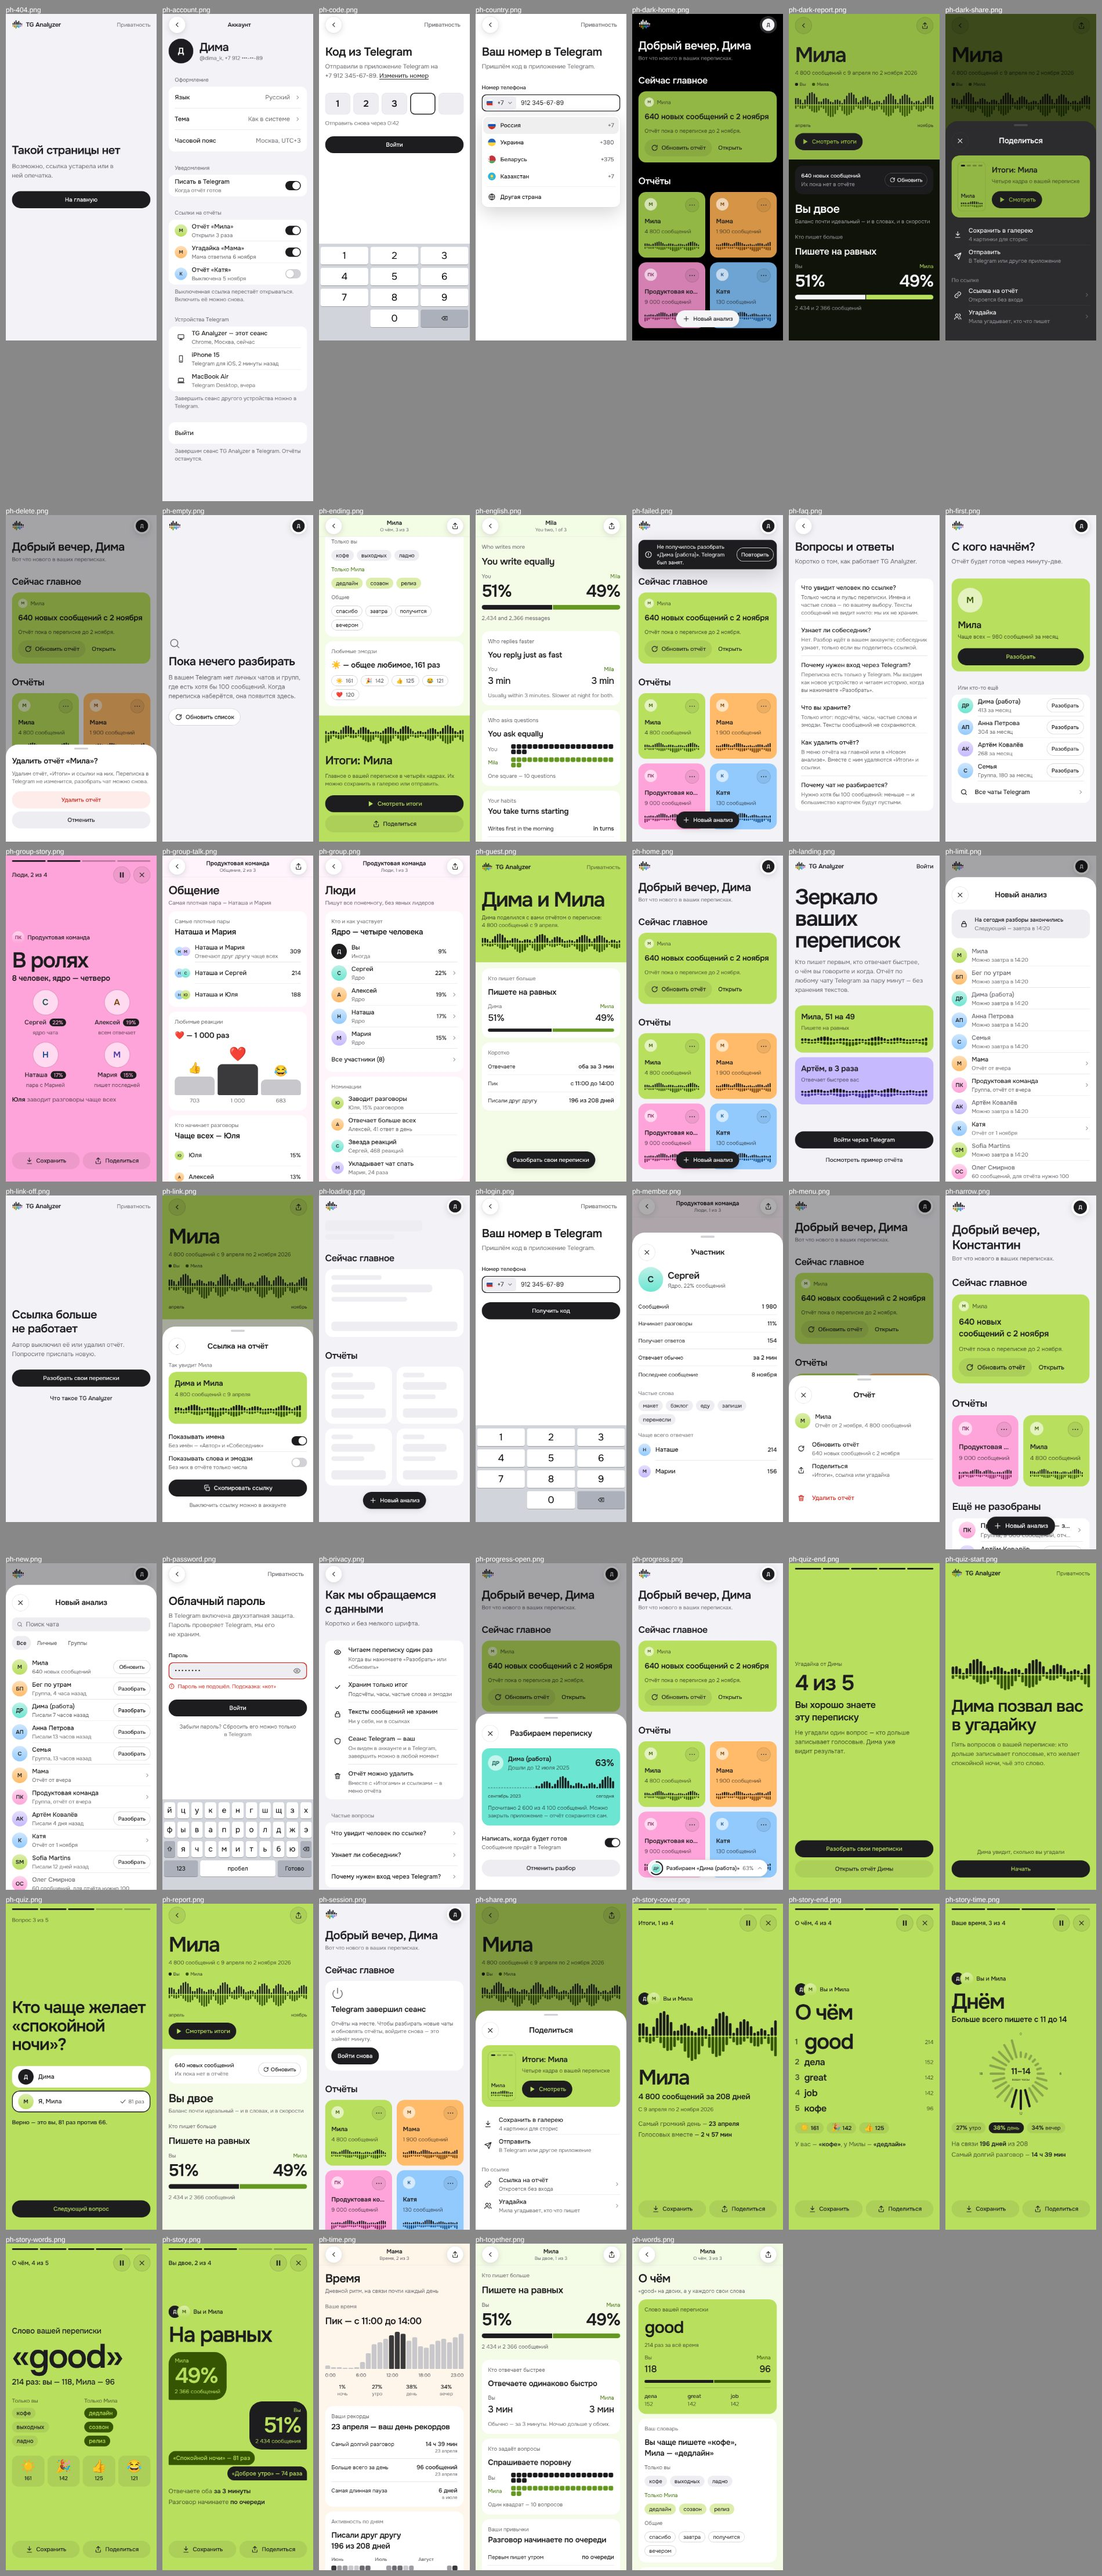
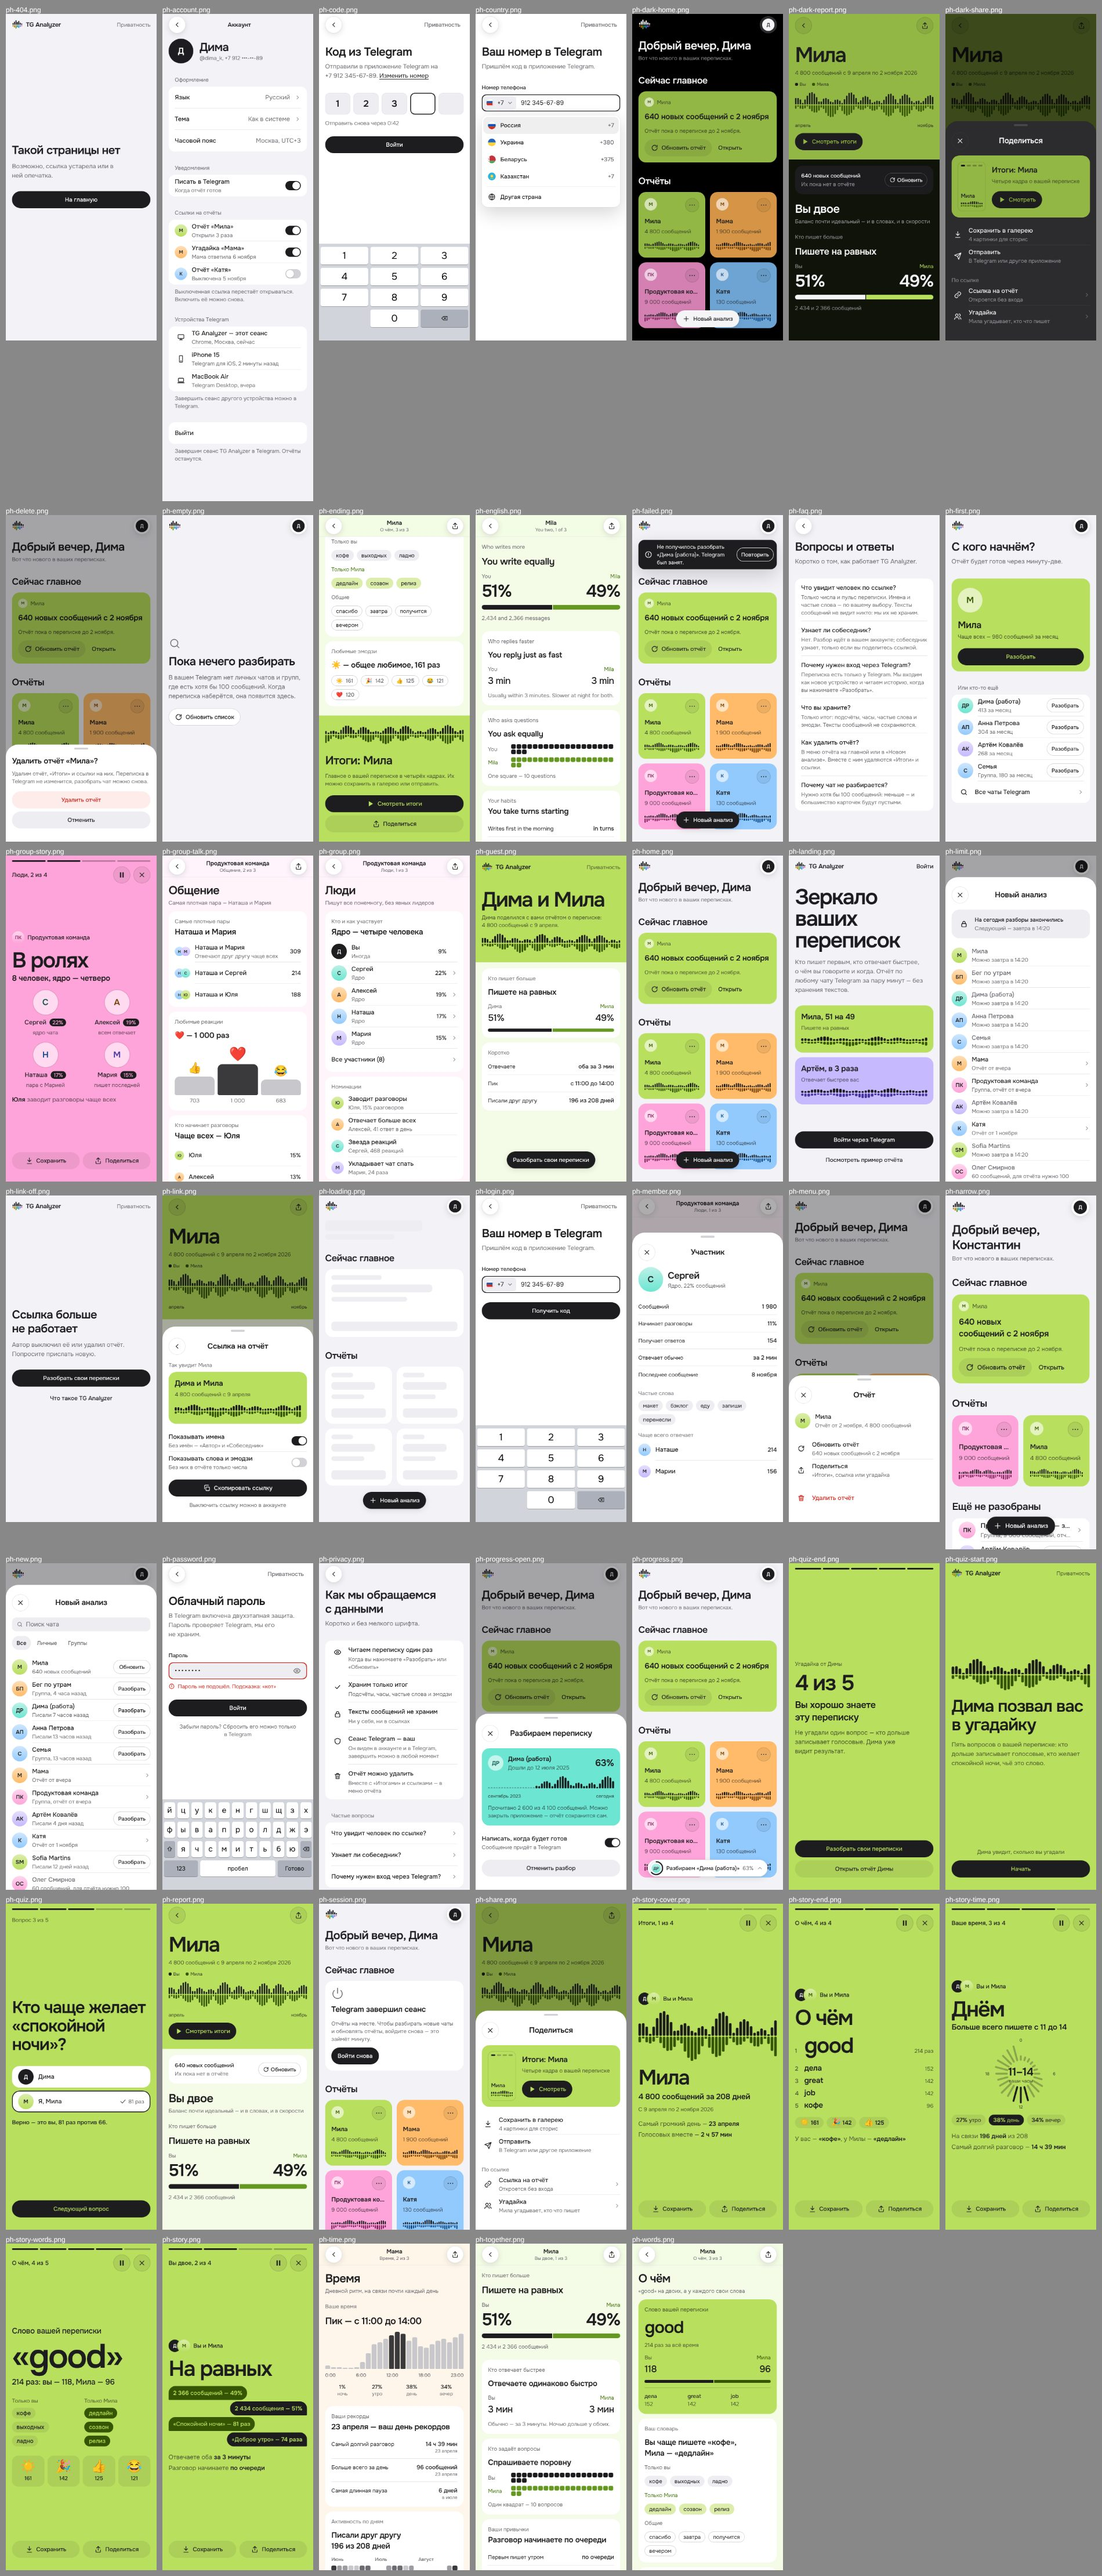
Stories mockups: short bubbles throughout, smaller clock face, tidy top five
Claude-Session: https://claude.ai/code/session_0138LxsFKP5n8SxjtSAnZS23

Changed region(s): [[0.8695, 0.7458, 0.9626, 0.839], [0.1553, 0.9011, 0.2795, 0.9633], [0.7142, 0.7458, 0.8074, 0.839]]

diff --git a/docs/design/portrait-v3/generator/system.py b/docs/design/portrait-v3/generator/system.py
@@ -453,27 +453,29 @@ CSS = r"""
 .st-lede { font: var(--text-h3); letter-spacing: var(--tracking-h3); text-wrap: balance; }
 /* «Вы двое»: a conversation — her bubble left in her deep tone, yours right in ink, Telegram service pills between */
 .st-chat { display: flex; flex-direction: column; gap: var(--space-1); }
-.bubble { display: flex; flex-direction: column; gap: var(--space-0-5); max-width: 72%; padding: var(--space-3) var(--space-4); border-radius: var(--radius-xl); color: var(--poster); font: var(--text-small); }
-.bubble b { font: var(--text-display); letter-spacing: var(--tracking-display); }
-.bubble.sm { padding: var(--space-2) var(--space-3); font: var(--text-ui); }
+.bubble { max-width: 80%; padding: var(--space-2) var(--space-3); border-radius: var(--radius-xl); color: var(--poster); font: var(--text-ui); }
+.bubble b { font-weight: 600; }
 .bubble.them { align-self: flex-start; background: var(--on-them); border-bottom-left-radius: var(--radius-mark); }
-.bubble.you { align-self: flex-end; background: var(--on-poster); border-bottom-right-radius: var(--radius-mark); text-align: right; }
+.bubble.you { align-self: flex-end; background: var(--on-poster); border-bottom-right-radius: var(--radius-mark); }
 .service { align-self: center; padding: var(--space-1) var(--space-3); border-radius: var(--radius-full); background: var(--on-poster-chip); font: var(--text-small-strong); }
 /* «Время»: the day as a clock face */
 .st-dial-wrap { display: flex; justify-content: center; }
-.st-dial { width: 220px; height: 220px; overflow: visible; }
-.story.still .st-dial { width: 200px; height: 200px; }
+.st-dial { width: 180px; height: 180px; overflow: visible; }
+.story.still .st-dial { width: 168px; height: 168px; }
 .st-dial line { stroke: var(--on-poster-faint); stroke-width: 8; stroke-linecap: round; }
 .st-dial line.hot { stroke: var(--on-poster); }
-.st-dial text { fill: var(--on-poster-muted); font: var(--text-caption); text-anchor: middle; }
-.st-dial text.big { fill: var(--on-poster); font: var(--text-h1); letter-spacing: var(--tracking-h1); }
+/* drawn at 300 and shown at 180: sizes in viewBox units, ×0.6 on screen (18 → 11, 48 → 29) */
+.st-dial text { fill: var(--on-poster-muted); font: 500 18px/1 var(--font-sans); text-anchor: middle; }
+.st-dial text.big { fill: var(--on-poster); font: 600 48px/1 var(--font-sans); letter-spacing: var(--tracking-h1); }
+.st-dial text.cap { font-size: 20px; }
 /* «О чём»: a numbered top five and the favourite emoji as a sticker */
-.st-top { list-style: none; margin: 0; padding: 0; }
-.st-top li { display: grid; grid-template-columns: var(--space-6) 1fr auto; align-items: center; min-height: 40px; }
-.st-top .n { font: var(--text-h3); color: var(--on-poster-muted); }
-.st-top b { font: var(--text-h2); letter-spacing: var(--tracking-h2); }
-.st-top li:first-child { min-height: 64px; }
-.st-top li:first-child b { font: var(--text-display); line-height: 64px; letter-spacing: var(--tracking-display); }
+.st-top1 { display: grid; grid-template-columns: var(--space-6) 1fr auto; align-items: baseline; }
+.st-top1 b { font: var(--text-display); letter-spacing: var(--tracking-display); }
+.st-top1 .n, .st-top .n { font: var(--text-ui); color: var(--on-poster-muted); }
+.st-top1 .c { font: var(--text-small); color: var(--on-poster-muted); }
+.st-top { list-style: none; margin: 0; padding: 0; display: flex; flex-direction: column; gap: var(--space-1); }
+.st-top li { display: grid; grid-template-columns: var(--space-6) 1fr auto; align-items: baseline; }
+.st-top b { font: var(--text-h3); letter-spacing: var(--tracking-h3); }
 .st-top .c { font: var(--text-small); color: var(--on-poster-muted); }
 /* group: a class photo, the share pinned on each portrait */
 .st-cast { display: grid; grid-template-columns: 1fr 1fr; gap: var(--space-4) var(--space-3); }
@@ -494,8 +496,6 @@ CSS = r"""
 .st-lines b { color: var(--on-poster); font-weight: 600; }
 .story.still { flex: none; padding: 23.1% var(--page-gutter) 31.5%; border-radius: var(--radius-sm); overflow: hidden; }
 .story.still .story-body { gap: var(--space-3); }
-.story.still .bubble { padding: var(--space-2) var(--space-3); }
-.story.still .bubble b { font: var(--text-figure); letter-spacing: var(--tracking-figure); }
 .story.still .st-lines { gap: 0; }
 .story-mark { display: flex; align-items: center; justify-content: center; gap: var(--space-2); font: var(--text-small-strong); padding-top: var(--space-4); }
 .safe-zone { position: absolute; left: 0; right: 0; border: 1px dashed var(--on-poster-faint); background: var(--on-poster-chip); display: flex; align-items: center; justify-content: center; font: var(--text-caption); color: var(--on-poster-muted); }

diff --git a/docs/design/portrait-v3/generator/phone.py b/docs/design/portrait-v3/generator/phone.py
@@ -317,19 +317,23 @@ FRAME_COVER = f'''{who()}
   <p class="t-small muted">С 9 апреля по 2 ноября 2026</p></div>
   <div class="st-lines"><p>Самый громкий день — <b>23 апреля</b></p><p>Голосовых вместе — <b>2 ч 57 мин</b></p></div>'''
 
-# a conversation: her bubbles left in her deep tone, yours right in ink, facts as plain lines under the dialogue
-FRAME_TOGETHER = f'''{who()}<h1 class="t-display">На равных</h1>
-  <div class="st-chat" role="img" aria-label="Мила — 49%, вы — 51%">
-  <div class="bubble them"><span>Мила</span><b>49%</b><span>2 366 сообщений</span></div>
-  <div class="bubble you"><span>Вы</span><b>51%</b><span>2 434 сообщения</span></div>
-  <div class="bubble them sm">«Спокойной ночи» — 81 раз</div>
-  <div class="bubble you sm">«Доброе утро» — 74 раза</div></div>
-  <div class="st-lines"><p>Отвечаете оба <b>за 3 минуты</b></p><p>Разговор начинаете <b>по очереди</b></p></div>'''
+# a conversation of short bubbles: hers on the left in her deep tone, yours on the right in ink
+def msg(text, side):
+    return f'<div class="bubble {side}">{text}</div>'
+
+
+FRAME_TOGETHER = (f'''{who()}<h1 class="t-display">На равных</h1><div class="st-chat" role="img" aria-label="Мила — 49% сообщений, вы — 51%">'''
+                  + msg('<b>2 366</b> сообщений — <b>49%</b>', 'them')
+                  + msg('<b>2 434</b> сообщения — <b>51%</b>', 'you')
+                  + msg('«Спокойной ночи» — <b>81 раз</b>', 'them')
+                  + msg('«Доброе утро» — <b>74 раза</b>', 'you')
+                  + '''</div>
+  <div class="st-lines"><p>Отвечаете оба <b>за 3 минуты</b></p><p>Разговор начинаете <b>по очереди</b></p></div>''')
 
 _HOURS = [2, 1, 1, 0, 0, 1, 4, 9, 14, 15, 17, 19, 21, 20, 16, 18, 13, 12, 14, 16, 17, 15, 18, 20]
 
 
-def _dial(size=300):
+def _dial(size=300):  # drawn at 300, shown at 180
     c, r0 = size / 2, 60
     rays = ''
     for k, v in enumerate(_HOURS):
@@ -337,9 +341,9 @@ def _dial(size=300):
         r1 = r0 + 10 + v / 21 * 54
         rays += (f'<line x1="{c + r0 * math.cos(ang):.1f}" y1="{c + r0 * math.sin(ang):.1f}" x2="{c + r1 * math.cos(ang):.1f}" y2="{c + r1 * math.sin(ang):.1f}" '
                  f'class="{"hot" if 11 <= k <= 13 else ""}"/>')
-    marks = ''.join(f'<text x="{c + 140 * math.cos(math.radians(h * 15 - 90)):.1f}" y="{c + 140 * math.sin(math.radians(h * 15 - 90)) + 4:.1f}">{h}</text>' for h in (0, 6, 12, 18))
+    marks = ''.join(f'<text x="{c + 144 * math.cos(math.radians(h * 15 - 90)):.1f}" y="{c + 144 * math.sin(math.radians(h * 15 - 90)) + 6:.1f}">{h}</text>' for h in (0, 6, 12, 18))
     return (f'<svg class="st-dial" viewBox="0 0 {size} {size}" role="img" aria-label="Сутки по часам: больше всего с 11 до 14">{rays}{marks}'
-            f'<text x="{c}" y="{c + 2}" class="big">11–14</text><text x="{c}" y="{c + 24}" class="cap">ваши часы</text></svg>')
+            f'<text x="{c}" y="{c + 8}" class="big">11–14</text><text x="{c}" y="{c + 38}" class="cap">ваши часы</text></svg>')
 
 
 # a clock face: the day as a dial, the peak in ink, the parts of the day under it
@@ -350,8 +354,9 @@ FRAME_TIME = f'''{who()}<div class="stack gap-1"><h1 class="t-display">Днём<
 
 # a top five, numbered like a chart; emoji and the words only one of you uses under it
 _TOP = [('good', 214), ('дела', 152), ('great', 142), ('job', 142), ('кофе', 96)]
-FRAME_WORDS = (f'''{who()}<h1 class="t-display">О чём</h1><ol class="st-top">'''
-               + ''.join(f'<li><span class="n">{i}</span><b>{w}</b><span class="c">{n}</span></li>' for i, (w, n) in enumerate(_TOP, 1))
+FRAME_WORDS = (f'''{who()}<h1 class="t-display">О чём</h1>
+  <div class="st-top1"><span class="n">1</span><b>{_TOP[0][0]}</b><span class="c">{_TOP[0][1]} раз</span></div><ol class="st-top" start="2">'''
+               + ''.join(f'<li><span class="n">{i}</span><b>{w}</b><span class="c">{n}</span></li>' for i, (w, n) in enumerate(_TOP[1:], 2))
                + '</ol><div class="st-parts emo">' + ''.join(f'<span><i>{e}</i><b>{n}</b></span>' for e, n in [('☀', 161), ('🎉', 142), ('👍', 125)]) + '</div>'
                + '<div class="st-lines"><p>У вас — <b>«кофе»</b>, у Милы — <b>«дедлайн»</b></p></div>')
 

diff --git a/docs/design/portrait-v3/README.md b/docs/design/portrait-v3/README.md
@@ -77,9 +77,9 @@
 У каждого кадра свой приём (по мотивам Spotify Wrapped, Strava, Duolingo). Общее — цвет человека, Onest, чернила для «вас» и строка «кто с кем» вверху (аватары и «Вы и Мила», в группе — название): кадр понятен, даже если его выложили отдельно. Всё стоит в потоке — ничего не лежит поверх соседнего. Факты — строки в одну строку, без линий и колонок.
 
 - **Обложка** — пульс переписки, имя, «4 800 сообщений за 208 дней», под ними две строки: самый громкий день и голосовые вместе.
-- **Вы двое** — переписка: пузырь Милы «49%» слева её глубоким тоном, ваш «51%» справа чернилами, ниже два маленьких пузыря: «Спокойной ночи» — 81 раз у Милы, «Доброе утро» — 74 у вас. В диалоге только пузыри; «Отвечаете оба за 3 минуты» и «Разговор начинаете по очереди» — строками под ним.
-- **Время** — циферблат суток: часы лучами, пик 11–14 чернилами; под ним доли утро / день / вечер и два факта.
-- **О чём** — топ-5 слов с номерами, первое — огромное; под списком три любимых эмодзи и слова, которые пишет только один из вас.
+- **Вы двое** — переписка короткими пузырями: «2 366 сообщений — 49%» и «Спокойной ночи» — 81 раз у Милы слева её глубоким тоном, «2 434 сообщения — 51%» и «Доброе утро» — 74 раза у вас справа чернилами. Под диалогом строками: отвечаете оба за 3 минуты, начинаете по очереди.
+- **Время** — циферблат суток (180 px): часы лучами, пик 11–14 чернилами; под ним доли утро / день / вечер и два факта.
+- **О чём** — первое слово отдельной строкой крупно с числом, места 2–5 ровным списком одного кегля без линий; под ним три эмодзи и слова, которые пишет только один из вас.
 - **Группа** — «фото класса»: четыре портрета, у имени доля, под ним роль; внизу — кто заводит разговоры.
 - **Картинка 1080 × 1920** (`pc-story-export`) — кадр без кнопок и полосок, знак внизу. Сверху 250 px и снизу 340 px — только фон: там интерфейс сторис.
 
